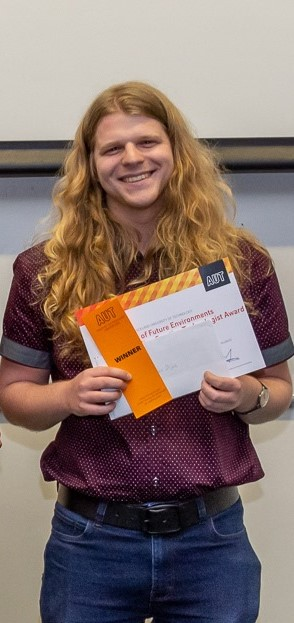
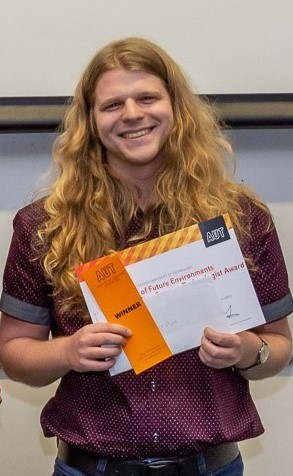
about update

diff --git a/_tabs/about.md b/_tabs/about.md
@@ -4,16 +4,12 @@ icon: fas fa-info
 order: 4
 ---
 
-![Desktop View](./assets/img/about_award.jpg){: width="240" .right}
-Hi, my name is Max and I'm currently 
-a student at Auckland University of Technology (AUT).
+![Desktop View](../assets/img/about_award.jpg){: width="294" .right}
 
-I'm an analytically minded individual who 
-aims to solve complex, data-driven problems 
-through Machine Learning and Artificial Intelligence.
-I enjoy discussing approaches to complex 
-problems and aim to bring a multidisciplinary 
-perspective to all challenges I face.
+Hi, my name is Max and I'm currently a student at Auckland University of Technology (AUT).
+
+I'm an analytically minded individual who aims to solve complex, data-driven problems through Machine Learning and Artificial Intelligence.
+I enjoy discussing approaches to complex problems and aim to bring a multidisciplinary perspective to all challenges I face.
 
 I'd love to get in touch! 
-Please feel free to contact me by email @ vandijcksm@gmail.com
+Please feel free to contact me by email at vandijcksm@gmail.com
